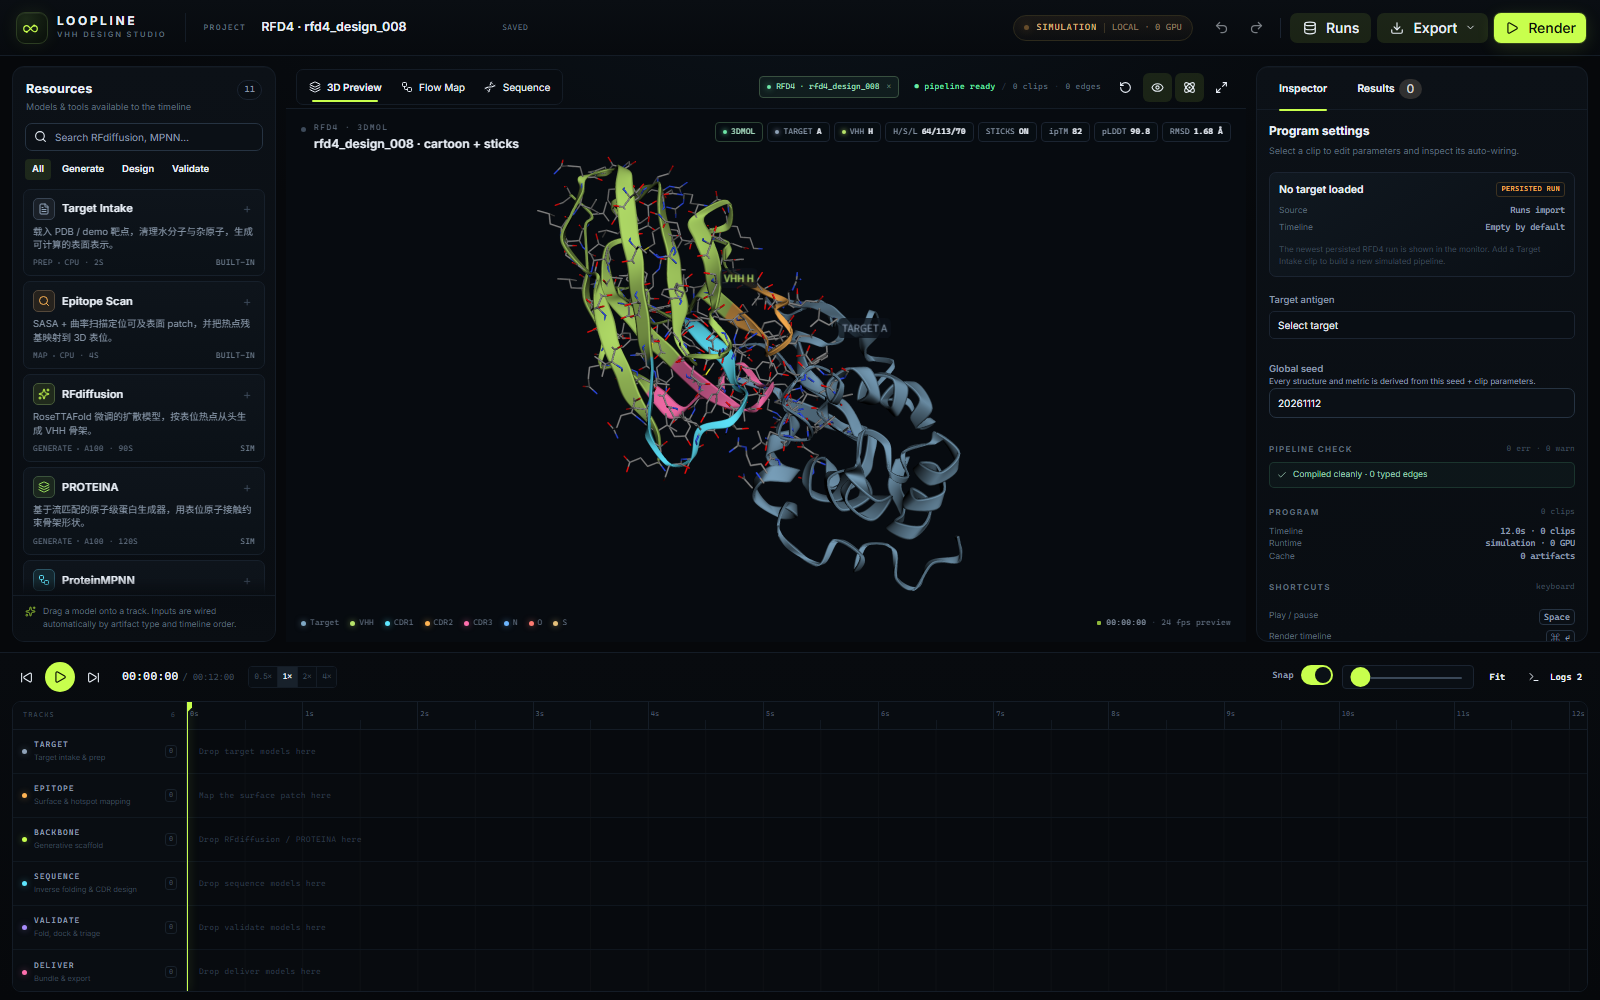
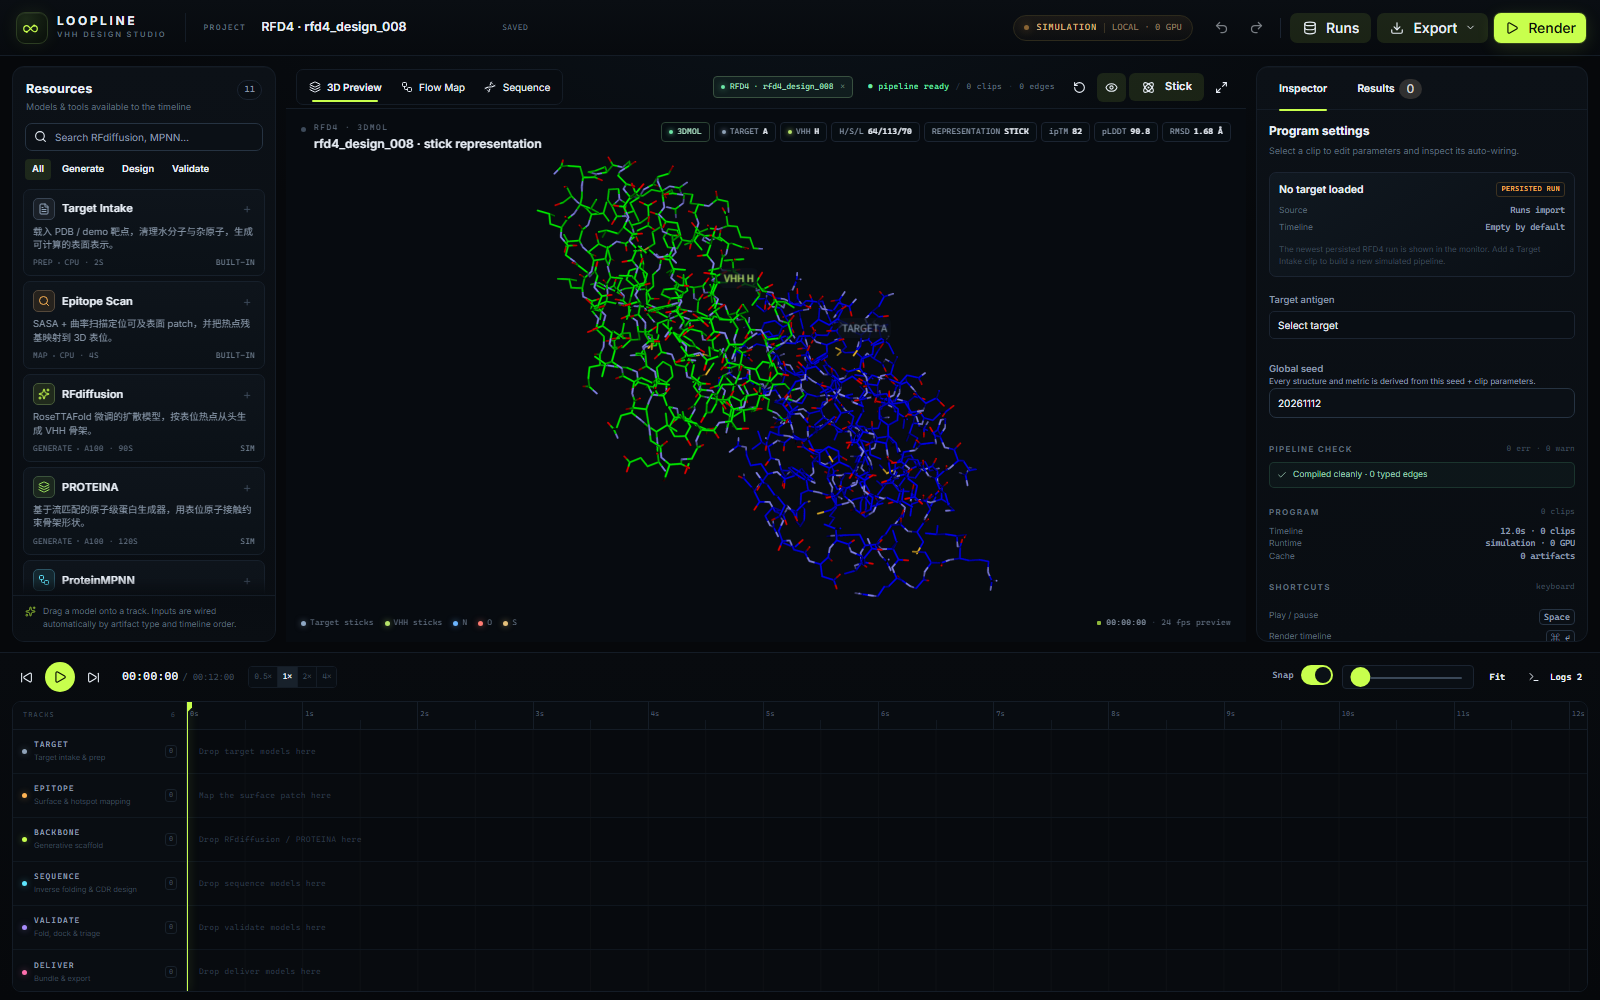
Make carbon and stick representations mutually exclusive

diff --git a/src/ui/monitor.js b/src/ui/monitor.js
@@ -1223,33 +1223,16 @@ export class Monitor {
     ctx.restore();
   }
   drawSidechainSticks(chains, project) {
-    const mode = this.app.state.stickMode || (this.app.state.sticks ? 'stick' : 'carbon');
+    const mode = this.app.state.stickMode || 'carbon';
+    if (mode !== 'stick') return;
     const ctx = this.ctx;
     const backboneNames = new Set(['N', 'CA', 'C', 'O']);
-    const binderCAs = [];
-    for (const chain of chains) {
-      if (chain.role !== 'binder') continue;
-      for (const res of chain.residues || []) {
-        const ca = res.atoms?.find((a) => a.name === 'CA');
-        if (ca) binderCAs.push(ca);
-      }
-    }
     const sticks = [];
     for (const chain of chains) {
       const isTarget = chain.role === 'target';
       for (const res of chain.residues || []) {
         const ca = res.atoms?.find((a) => a.name === 'CA');
         if (!ca) continue;
-        if (isTarget) {
-          let near = false;
-          for (const b of binderCAs) {
-            if ((ca.x - b.x) ** 2 + (ca.y - b.y) ** 2 + (ca.z - b.z) ** 2 < 81) {
-              near = true;
-              break;
-            }
-          }
-          if (!near) continue;
-        }
         const atomMap = new Map((res.atoms || []).map((a) => [a.name, a]));
         for (const [nameA, nameB] of res.bonds || []) {
           const a = atomMap.get(nameA);
@@ -1262,10 +1245,10 @@ export class Monitor {
             ? b.element
             : a.element === 'N' || a.element === 'O' || a.element === 'S' ? a.element : 'C';
           const color = element === 'N' ? '#6cb6ff' : element === 'O' ? '#ff7b72' : element === 'S' ? '#e5c07b'
-            : (isTarget ? '#9db1c4' : '#d7e2ee');
+            : (isTarget ? '#8fa8c4' : '#b7e36a');
           sticks.push({
             a: pa, b: pb, color,
-            alpha: (mode === 'stick' ? 0.44 : 0.3) + ((pa.depth + pb.depth) / 2) * (mode === 'stick' ? 0.56 : 0.5),
+            alpha: 0.44 + ((pa.depth + pb.depth) / 2) * 0.56,
             z: (pa.z + pb.z) / 2,
             atom: element,
           });
@@ -1277,7 +1260,7 @@ export class Monitor {
     ctx.lineCap = 'round';
     for (const stick of sticks) {
       ctx.strokeStyle = rgba(stick.color, stick.alpha);
-      ctx.lineWidth = mode === 'stick' ? 1.35 : 0.9;
+      ctx.lineWidth = 1.35;
       ctx.beginPath();
       ctx.moveTo(stick.a.x, stick.a.y);
       ctx.lineTo(stick.b.x, stick.b.y);
@@ -1368,6 +1351,7 @@ export class Monitor {
       return za - zb;
     });
     for (const run of cartoonRuns) {
+      if (this.app.state.stickMode !== 'carbon') continue;
       this.drawCartoonRun(run.points, run.ss, run.color, {
         alpha: 0.38 + run.depth * 0.62,
         emphasis: Boolean(run.region),
@@ -1437,7 +1421,7 @@ export class Monitor {
       `<span class="mon-pill"><span class="pdot" style="--c:#8fa2b8"></span>TARGET <b>${targetChains}</b></span>`,
       `<span class="mon-pill"><span class="pdot" style="--c:#b7e36a"></span>VHH <b>${binderChain}</b></span>`,
       real.ssSummary ? `<span class="mon-pill">H/S/L <b>${real.ssSummary.helix}/${real.ssSummary.sheet}/${real.ssSummary.loop}</b></span>` : '',
-      `<span class="mon-pill">SIDECHAIN <b>${this.app.state.stickMode === 'carbon' ? 'CARBON' : 'STICK'}</b></span>`,
+      `<span class="mon-pill">REPRESENTATION <b>${this.app.state.stickMode === 'stick' ? 'STICK' : 'CARBON'}</b></span>`,
       Number.isFinite(ipTM) ? `<span class="mon-pill">ipTM <b>${ipTM.toFixed(0)}</b></span>` : '',
       Number.isFinite(plddt) ? `<span class="mon-pill">pLDDT <b>${plddt.toFixed(1)}</b></span>` : '',
       Number.isFinite(rmsd) ? `<span class="mon-pill">RMSD <b>${rmsd.toFixed(2)} Å</b></span>` : '',
@@ -1446,20 +1430,26 @@ export class Monitor {
     if (!force && key === this._hudKey) return;
     this._hudKey = key;
     this.kickerEl.textContent = 'RFD4 · 3DMOL';
-    this.stageEl.textContent = `${real.designId} · cartoon + ${this.app.state.stickMode === 'carbon' ? 'carbon' : 'stick'}`;
+    this.stageEl.textContent = this.app.state.stickMode === 'stick'
+      ? `${real.designId} · stick representation`
+      : `${real.designId} · carbon cartoon`;
     this.pillsEl.innerHTML = pills.join('');
     this.tcEl.textContent = formatTimecode(this.app.state.playhead, this.app.project.fps);
     this.liveDot.classList.remove('on', 'live');
     this.emptyEl.classList.add('hidden');
-    this.legendEl.innerHTML = `
-      <span class="leg" style="--c:#7fa8c4"><i></i>Target</span>
-      <span class="leg" style="--c:#b7e36a"><i></i>VHH</span>
-      <span class="leg" style="--c:#5ee7ff"><i></i>CDR1</span>
-      <span class="leg" style="--c:#ffb454"><i></i>CDR2</span>
-      <span class="leg" style="--c:#ff6fae"><i></i>CDR3</span>
-      <span class="leg" style="--c:#6cb6ff"><i></i>N</span>
-      <span class="leg" style="--c:#ff7b72"><i></i>O</span>
-      <span class="leg" style="--c:#e5c07b"><i></i>S</span>`;
+    this.legendEl.innerHTML = this.app.state.stickMode === 'stick'
+      ? `
+        <span class="leg" style="--c:#8fa8c4"><i></i>Target sticks</span>
+        <span class="leg" style="--c:#b7e36a"><i></i>VHH sticks</span>
+        <span class="leg" style="--c:#6cb6ff"><i></i>N</span>
+        <span class="leg" style="--c:#ff7b72"><i></i>O</span>
+        <span class="leg" style="--c:#e5c07b"><i></i>S</span>`
+      : `
+        <span class="leg" style="--c:#7fa8c4"><i></i>Target cartoon</span>
+        <span class="leg" style="--c:#b7e36a"><i></i>VHH cartoon</span>
+        <span class="leg" style="--c:#5ee7ff"><i></i>CDR1</span>
+        <span class="leg" style="--c:#ffb454"><i></i>CDR2</span>
+        <span class="leg" style="--c:#ff6fae"><i></i>CDR3</span>`;
   }
 
   /* ================================= HUD ================================== */

diff --git a/src/components/ThreeDmolViewer.tsx b/src/components/ThreeDmolViewer.tsx
@@ -34,34 +34,32 @@ function applyLabels(viewer: any, structure: any, show: boolean) {
 function applyStyle(viewer: any, structure: any, mode: 'carbon' | 'stick') {
   viewer.setStyle({}, {});
   const chains = structure.chains || [];
-  const binder = chains.find((c: any) => c.role === 'binder');
-  const sideStyle = mode === 'stick'
-    ? { stick: { radius: 0.13, colorscheme: 'Jmol' } }
-    : { line: { linewidth: 1.6, colorscheme: 'Jmol' } };
 
-  for (const chain of chains) {
-    const base = chain.role === 'target' ? '#7fa8c4' : '#b7e36a';
-    viewer.setStyle({ chain: chain.id }, {
-      cartoon: { color: base, style: 'rectangle', thickness: 0.32 },
-    });
-
-    for (const cdr of chain.cdrs || []) {
-      const start = chain.residues?.[cdr.start]?.resSeq;
-      const end = chain.residues?.[cdr.end]?.resSeq;
-      if (start == null || end == null) continue;
-      viewer.addStyle({ chain: chain.id, resi: `${start}-${end}` }, {
-        cartoon: { color: CDR_COLORS[cdr.key] || '#ffb454', style: 'rectangle', thickness: 0.32 },
+  if (mode === 'carbon') {
+    // Carbon: cartoon only. No side-chain sticks at all.
+    for (const chain of chains) {
+      const base = chain.role === 'target' ? '#7fa8c4' : '#b7e36a';
+      viewer.setStyle({ chain: chain.id }, {
+        cartoon: { color: base, style: 'rectangle', thickness: 0.32 },
       });
+      for (const cdr of chain.cdrs || []) {
+        const start = chain.residues?.[cdr.start]?.resSeq;
+        const end = chain.residues?.[cdr.end]?.resSeq;
+        if (start == null || end == null) continue;
+        viewer.addStyle({ chain: chain.id, resi: `${start}-${end}` }, {
+          cartoon: { color: CDR_COLORS[cdr.key] || '#ffb454', style: 'rectangle', thickness: 0.32 },
+        });
+      }
     }
+    return;
+  }
 
-    if (chain.role === 'target' && binder) {
-      viewer.addStyle({
-        chain: chain.id,
-        within: { distance: 8, sel: { chain: binder.id } },
-      }, sideStyle);
-    } else {
-      viewer.addStyle({ chain: chain.id }, sideStyle);
-    }
+  // Stick: sticks only. No cartoon / carbon trace underneath.
+  for (const chain of chains) {
+    const scheme = chain.role === 'target' ? 'blueCarbon' : 'greenCarbon';
+    viewer.addStyle({ chain: chain.id }, {
+      stick: { radius: 0.14, colorscheme: scheme },
+    });
   }
 }
 

diff --git a/src/components/Stage.tsx b/src/components/Stage.tsx
@@ -97,7 +97,7 @@ export function Stage({ app }: { app: any }) {
             icon={<Glyph name="atom" size={13} />}
             isDisabled={!real || view !== '3d'}
             onClick={() => app.toggleSticks()}
-            tooltip={`Side-chain representation: ${app.state.stickMode}. Click to switch to ${app.state.stickMode === 'stick' ? 'carbon' : 'stick'}.`}
+            tooltip={`Representation: ${app.state.stickMode === 'stick' ? 'stick' : 'carbon cartoon'}. Click to switch to ${app.state.stickMode === 'stick' ? 'carbon' : 'stick'}.`}
             className="ll-astryx-button ll-stick-toggle"
           />
           <IconButton

diff --git a/src/state.js b/src/state.js
@@ -62,8 +62,8 @@ export class App {
       selectedCandidate: 0,
       spin: Boolean(ui.spin),
       labels: ui.labels !== false,
-      sticks: ui.sticks !== false,
-      stickMode: ui.stickMode === 'carbon' ? 'carbon' : (ui.sticks === false ? 'carbon' : 'stick'),
+      sticks: ui.stickMode === 'stick',
+      stickMode: ui.stickMode === 'stick' ? 'stick' : 'carbon',
       realDesign: null,
       molActive: false,
     };

diff --git a/docs/DESIGN.md b/docs/DESIGN.md
@@ -235,7 +235,7 @@ main.tsx
 - **时间线编辑器**：拖入、跨轨移动、右缘裁剪、吸附、缩放、scrub、删除、复制、撤销重做、同轨避让。
 - **编译器**：按开始时间自动接线，缺输入 / 上游未完成 / 同轨重叠 / 越界均有诊断。
 - **运行时**：播放头驱动的 artifact 计算，缓存失效，逐片段日志，2× Render，完成自动切 Results。
-- **监视器**：持久化 RFD4 design 的 3D Preview 由 **3Dmol.js 2.5 / WebGL** 渲染（cartoon + side-chain Carbon/Stick 切换 + CDR 分色 + 链标签）；模拟时间线与没有 persisted run 时使用 Canvas 2D fallback（有 backbone 时才绘制抗原表面/VHH；没有结构时 3D 画布保持空白）。Flow Map（带自动接线边）与 Sequence（残基着色 + CDR 注释 + 三张 dossier 卡）仍是 Canvas。
+- **监视器**：持久化 RFD4 design 的 3D Preview 由 **3Dmol.js 2.5 / WebGL** 渲染，提供两种互斥表示：**Carbon = cartoon only（无 sticks）**，**Stick = sticks only（无 cartoon）**；CDR 分色与链标签保留。模拟时间线与没有 persisted run 时使用 Canvas 2D fallback（有 backbone 时才绘制抗原表面/VHH；没有结构时 3D 画布保持空白）。Flow Map（带自动接线边）与 Sequence（残基着色 + CDR 注释 + 三张 dossier 卡）仍是 Canvas。
 - **资源**：11 个模型 / 工具、6 条轨道、2 套模板（PD-L1、HER2）；EGFR-D3 只保留为内部测试 fixture。
 - **交付**：项目 JSON、FASTA、PDB（CA trace + REMARK）、metrics CSV。
 - **验证**：16 个引擎 / 后端测试；`tools/cdp.mjs` 提供 headless Chrome 截图与交互 smoke test。
@@ -286,7 +286,7 @@ GET /api/tamarind/jobs
   → SQLite run + designs
   → Runs drawer: design table, CDR, metrics, PDB download
   → GET /api/designs/:id/structure
-  → Canvas / 3Dmol: DSSP-lite cartoon + all-atom side-chain sticks
+  → Canvas / 3Dmol: Carbon cartoon only | Stick only
 
 POST /api/tamarind/validate   (no-cost preflight)
 POST /api/tamarind/submit
